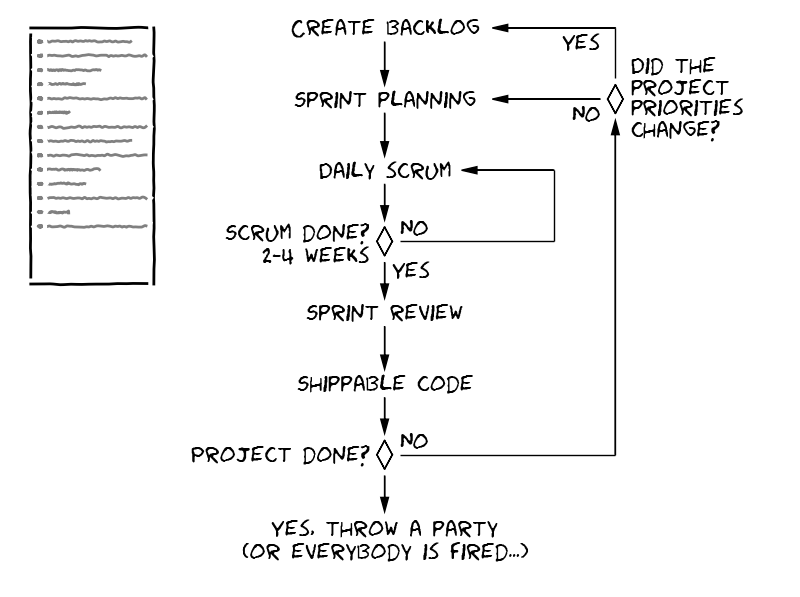
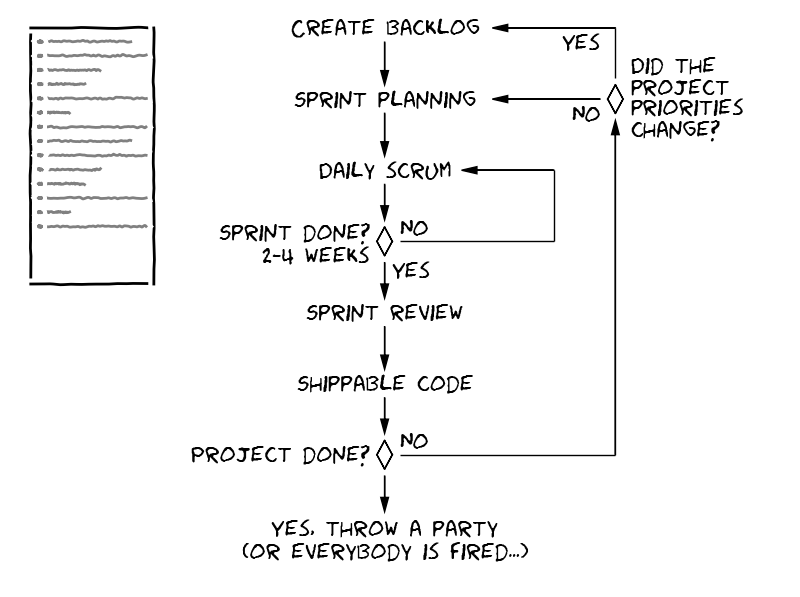
Spelling mistake on scrum png

diff --git a/public/images/xkcd graphics/xkcd_test.py b/public/images/xkcd graphics/xkcd_test.py
@@ -13,8 +13,8 @@ def main():
     #VeeModel()
     #testProbPlots()
     #docPlots()
-    agilePyramid()
-    #scrum()
+    #agilePyramid()
+    scrum()
     #kanban()
 
     pass
@@ -63,7 +63,7 @@ def scrum():
     ax.arrow(2.5, 2.9, 0, -0.15, head_width=0.05, head_length=0.1, fc='k', ec='k')
 
     drawDecision(ax, 2.5, 2.5)
-    pl.text(2.4, 2.5, 'Scrum done?\n2-4 weeks',
+    pl.text(2.4, 2.5, 'Sprint done?\n2-4 weeks',
             horizontalalignment='right', verticalalignment='center')
     pl.text(2.6, 2.6, 'No',
             horizontalalignment='left', verticalalignment='center')

diff --git a/source/images/xkcd graphics/xkcd_test.py b/source/images/xkcd graphics/xkcd_test.py
@@ -13,8 +13,8 @@ def main():
     #VeeModel()
     #testProbPlots()
     #docPlots()
-    agilePyramid()
-    #scrum()
+    #agilePyramid()
+    scrum()
     #kanban()
 
     pass
@@ -63,7 +63,7 @@ def scrum():
     ax.arrow(2.5, 2.9, 0, -0.15, head_width=0.05, head_length=0.1, fc='k', ec='k')
 
     drawDecision(ax, 2.5, 2.5)
-    pl.text(2.4, 2.5, 'Scrum done?\n2-4 weeks',
+    pl.text(2.4, 2.5, 'Sprint done?\n2-4 weeks',
             horizontalalignment='right', verticalalignment='center')
     pl.text(2.6, 2.6, 'No',
             horizontalalignment='left', verticalalignment='center')
